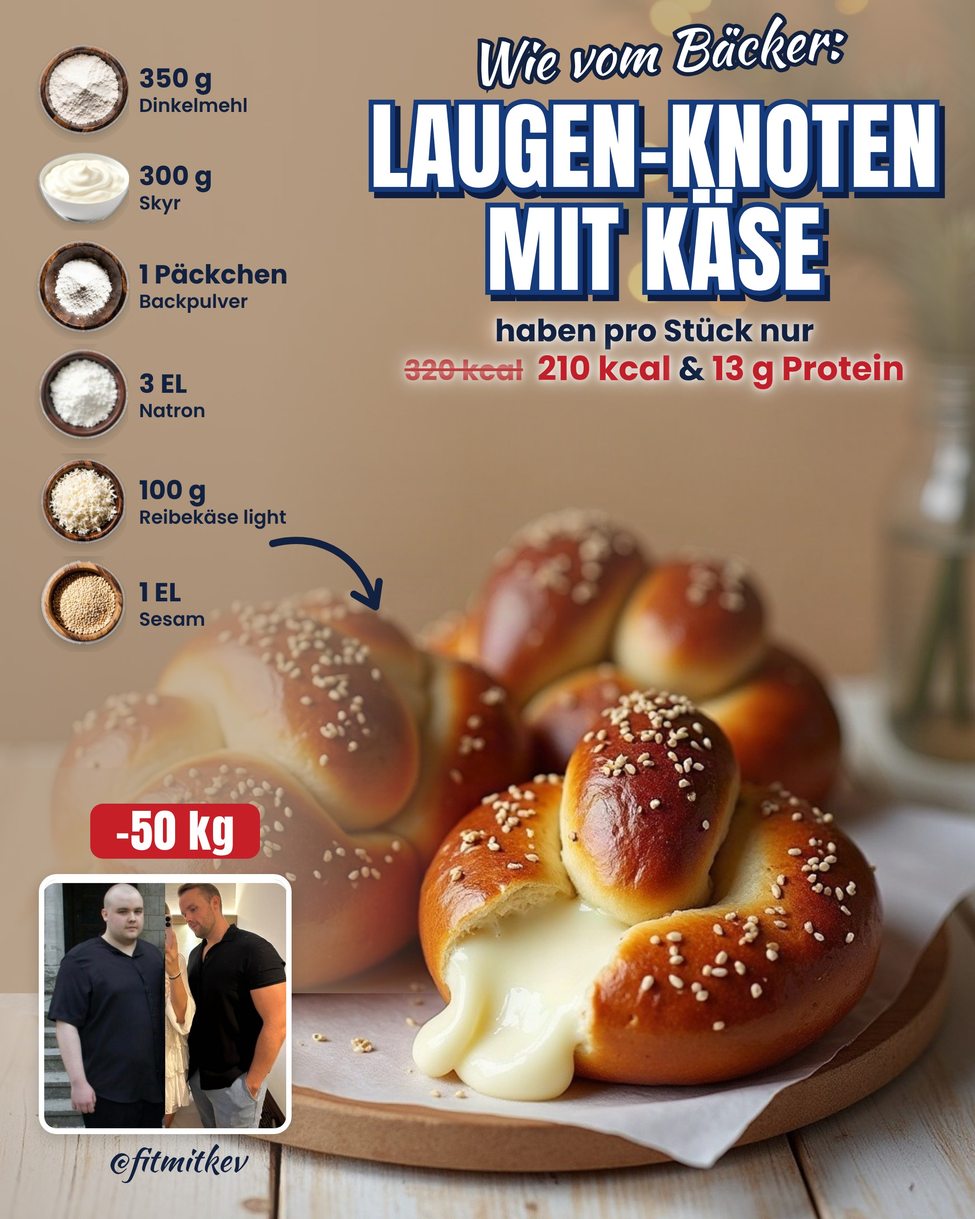
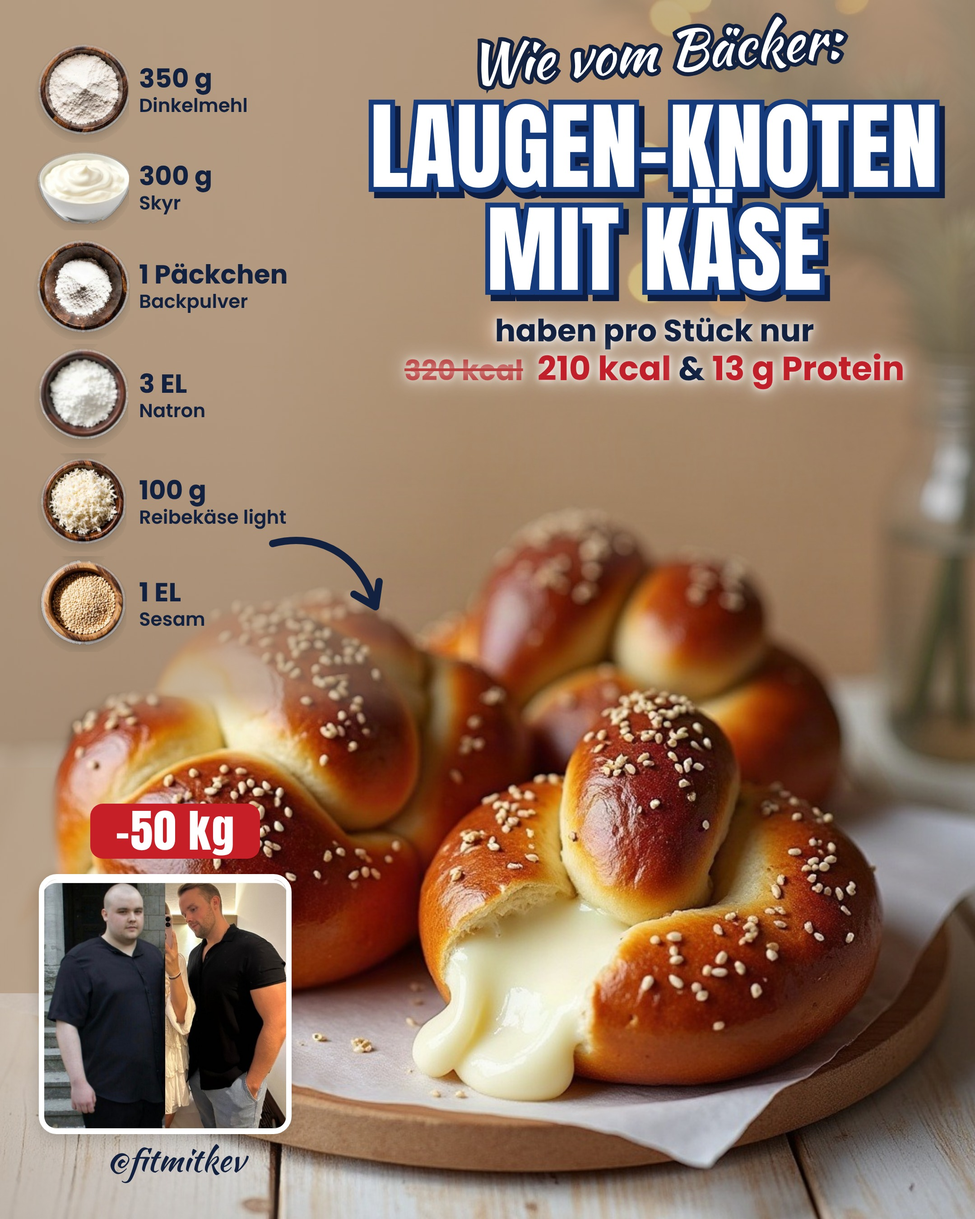
G87: Essen als oberste Ebene (GrabCut-Freistellung über den Verläufen), Textzonen geschützt
Claude-Session: https://claude.ai/code/session_01KPVmpRePrZAkggdzf7KsfK

Changed region(s): [[0.031, 0.56, 0.4343, 0.84], [0.4343, 0.5289, 0.4653, 0.56]]

diff --git a/tools/g87/foodcut.py b/tools/g87/foodcut.py
@@ -1,0 +1,47 @@
+# -*- coding: utf-8 -*-
+"""Essen aus dem Hero freistellen (GrabCut), damit es als oberste Ebene über den Beige-Verläufen liegt."""
+import cv2, numpy as np, os, sys
+from PIL import Image
+D=os.path.dirname(os.path.abspath(__file__)); os.makedirs(f'{D}/hero_cut',exist_ok=True)
+def text_zone_mask(w,h):
+    """Alpha-Maske (0..1): dort, wo Kachelspalte und Titelblock liegen, bleibt das Essen hinter dem Verlauf
+    (sonst läuft es in den Text). CSS-px (1080x1350) -> Bildpixel; weiche Kante 40 px."""
+    sx,sy=w/1080,h/1350
+    m=np.ones((h,w),np.float32)
+    yy,xx=np.mgrid[0:h,0:w]
+    X=xx/sx; Y=yy/sy
+    def box(x0,x1,y0,y1,f=40):
+        dx=np.maximum(np.maximum(x0-X,X-x1),0); dy=np.maximum(np.maximum(y0-Y,Y-y1),0)
+        d=np.hypot(dx,dy); return np.clip(d/f,0,1)        # 0 innen, 1 ab f px außerhalb
+    m=np.minimum(m,box(0,430,0,765))      # Kachelspalte
+    m=np.minimum(m,box(380,1080,0,612))   # Hook/Titel/kcal
+    return m
+def food_cut(key):
+    dst=f'{D}/hero_cut_m/{key}.png'
+    os.makedirs(f'{D}/hero_cut_m',exist_ok=True)
+    if os.path.exists(dst): return dst
+    raw=f'{D}/hero_cut/{key}.png'
+    if os.path.exists(raw):
+        rgba=np.asarray(Image.open(raw).convert('RGBA')).copy(); h,w=rgba.shape[:2]
+        rgba[:,:,3]=(rgba[:,:,3]*text_zone_mask(w,h)).astype(np.uint8)
+        Image.fromarray(rgba).save(dst); return dst
+    im=cv2.imread(f'{D}/hero/{key}.jpg'); h,w=im.shape[:2]
+    mask=np.zeros((h,w),np.uint8)
+    rect=(int(w*0.06),int(h*0.30),int(w*0.90),int(h*0.68))
+    bgd=np.zeros((1,65),np.float64); fgd=np.zeros((1,65),np.float64)
+    cv2.grabCut(im,mask,rect,bgd,fgd,5,cv2.GC_INIT_WITH_RECT)
+    fg=np.where((mask==cv2.GC_FGD)|(mask==cv2.GC_PR_FGD),255,0).astype(np.uint8)
+    fg=cv2.morphologyEx(fg,cv2.MORPH_CLOSE,np.ones((15,15),np.uint8))
+    n,lab,stats,_=cv2.connectedComponentsWithStats(fg)
+    if n>1:
+        keep=[i for i in range(1,n) if stats[i,cv2.CC_STAT_AREA]>0.02*h*w]
+        fg=np.isin(lab,keep).astype(np.uint8)*255
+    fg=cv2.GaussianBlur(fg,(0,0),4)
+    rgba=cv2.cvtColor(im,cv2.COLOR_BGR2RGBA); rgba[:,:,3]=fg
+    Image.fromarray(rgba).save(raw)
+    rgba[:,:,3]=(fg*text_zone_mask(w,h)).astype(np.uint8)
+    Image.fromarray(rgba).save(dst); return dst
+if __name__=='__main__':
+    import g87_data as G
+    for r in G.R:
+        food_cut(r['key']); print('ok',r['key'],flush=True)

diff --git a/tools/g87/render87.py b/tools/g87/render87.py
@@ -22,7 +22,7 @@ def tile_img(tile, scale):
     w,h=Image.open(p).size
     return p, round(w/2*scale), round(h/2*scale)
 
-def board_html(r,hero):
+def board_html(r,hero,herocut):
     k,p,c,f=G.macros4(r)
     n=len(r['zutaten']); scale=1.2 if n<=7 else 1.1
     colh=704 if n>=8 else 690
@@ -77,7 +77,7 @@ body{{width:1080px;height:1350px;overflow:hidden;position:relative;font-family:P
 .photo{{position:absolute;left:43px;top:968px;width:280px;height:288px;border-radius:20px;border:6px solid #fff;object-fit:cover;box-shadow:0 6px 16px rgba(0,0,0,.18)}}
 .ig{{position:absolute;left:118px;top:1258px;font-family:K;font-size:36px;color:{NAVY}}}
 </style></head><body>
-<img class="hero" src="{hero}"><div class="fadeT"></div><div class="fadeL"></div><div class="fadeB"></div>
+<img class="hero" src="{hero}"><div class="fadeT"></div><div class="fadeL"></div><div class="fadeB"></div><img class="hero" src="{herocut}">
 <div class="col">{rows}</div>
 <div class="title"><div class="hookw"><div class="hookb">{hook}</div><div class="hook">{hook}</div></div>
 <div class="tw">{title_layers}</div>
@@ -96,7 +96,8 @@ def render(keys):
         for key in keys:
             r=by[key]; hero=f"{D}/hero/{key}.jpg"
             if not os.path.exists(hero): print("kein Hero:",key); continue
-            h=board_html(r,hero); open(f"{D}/out/{key}.html","w").write(h)
+            from foodcut import food_cut
+            h=board_html(r,hero,food_cut(key)); open(f"{D}/out/{key}.html","w").write(h)
             pg.goto('file://'+f"{D}/out/{key}.html"); pg.wait_for_timeout(350)
             pg.evaluate('''()=>{const ds=[...document.querySelectorAll('.tw div')];let fs=parseFloat(getComputedStyle(ds[0]).fontSize);
               const w=()=>{const r=document.createRange();r.selectNodeContents(ds[2]);return r.getBoundingClientRect().width;};
